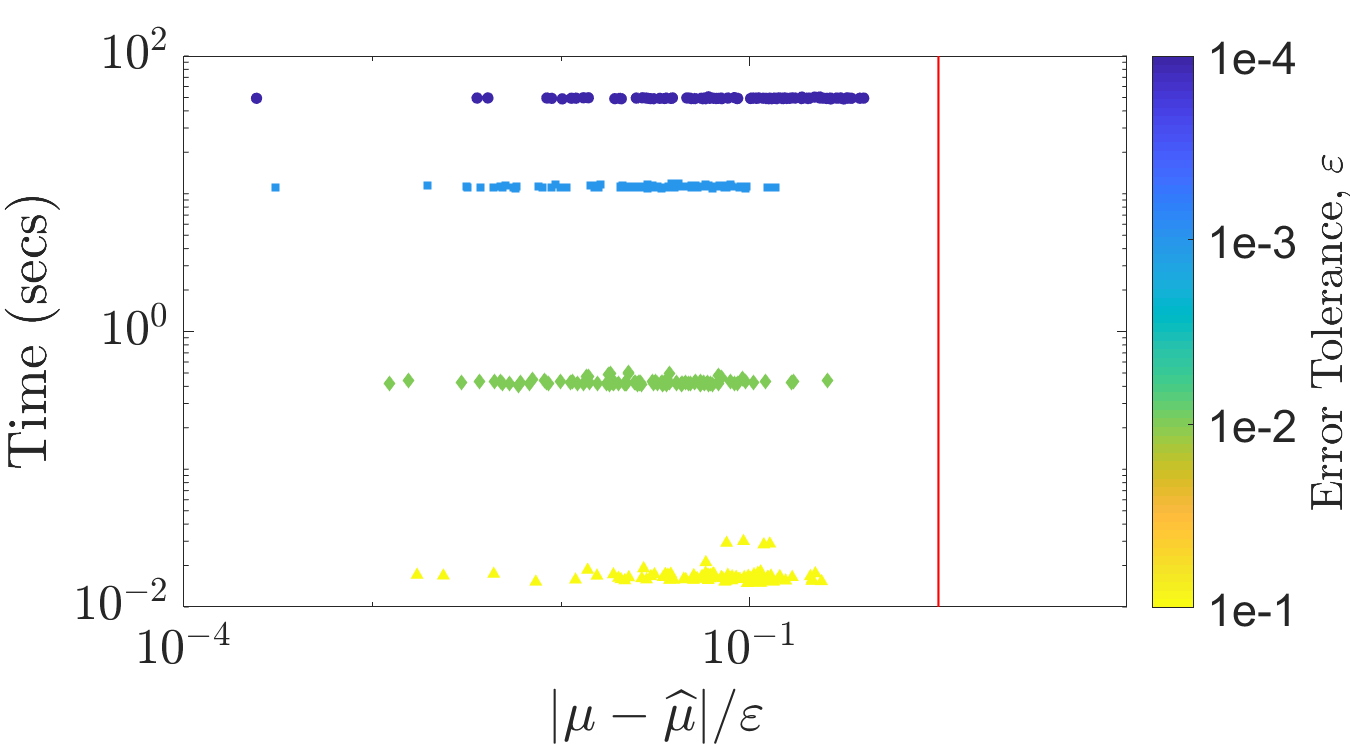
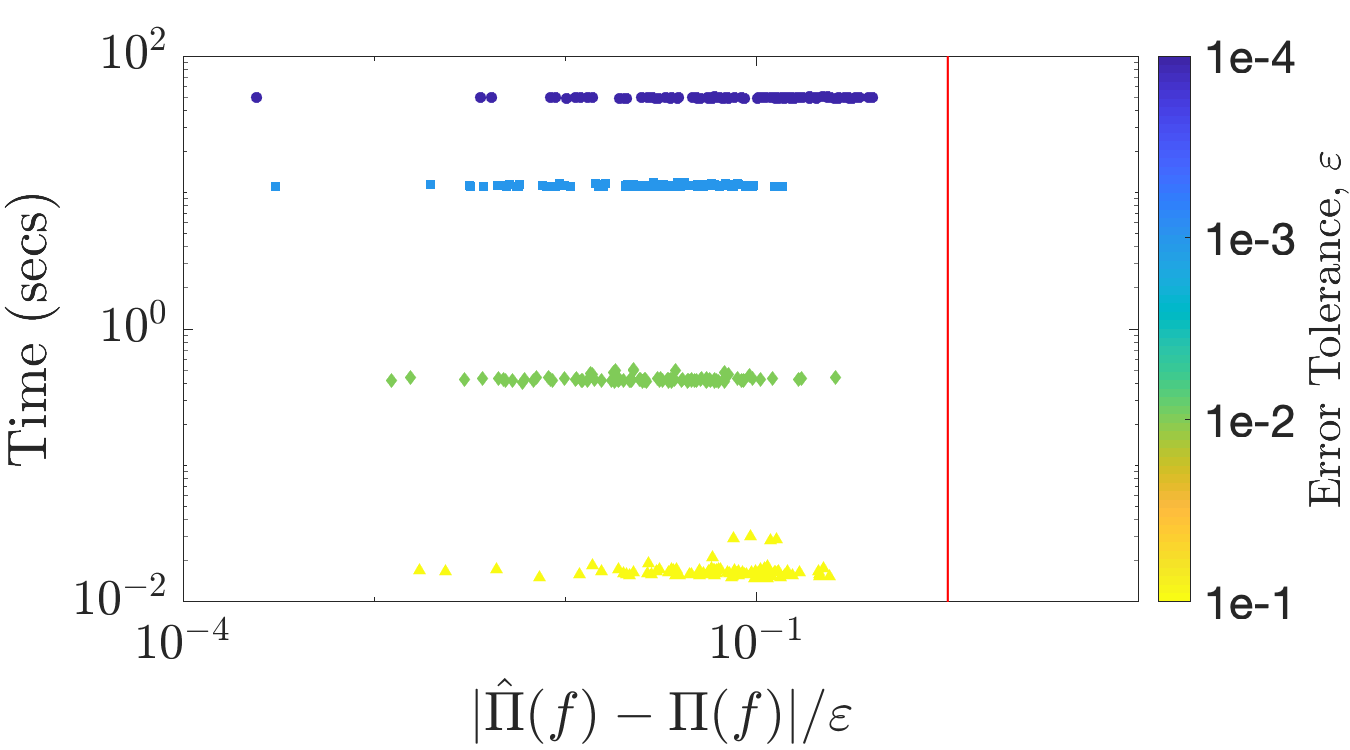
testing

diff --git a/StatSciProbNum2018Discuss.tex b/StatSciProbNum2018Discuss.tex
@@ -115,7 +115,7 @@ To increase the possibility that our integrand $f$ lies in the middle of the sam
 \begin{subequations} \label{JHFullBayes}
 \begin{align}
 \label{eqn:BC}
-    \hat{\Pi}[f] & =  \Ex_n[\hat{\Pi}[g]] \\
+    \hat{\Pi}[f] & =  \Ex_n[\Pi[g]] \\
     \nonumber
     & =
 \left(
@@ -133,6 +133,7 @@ To increase the possibility that our integrand $f$ lies in the middle of the sam
 \nonumber & \qquad \qquad  +
 \Pi\Pi[c_0(\cdot,\cdot)] - \Pi[\vc_0(\cdot, X)]\vC_0^{-1} \Pi[\vc_0(X,\cdot)] 
 \biggr ), \\
+\label{BCFullStop}
 \lefteqn{\Prob\Bigl[\bigl \lvert \hat{\Pi}[f] - \Pi[g] \bigr \rvert \le t_{n-1,0.995} \sqrt{\Var_n[\Pi[g]]}  \Bigr] = 99\%,}
 \end{align}
 \end{subequations}
@@ -193,10 +194,11 @@ for some $\mathring{c}_0$, and
     \text{Shifted rank-1 integration lattice node sets, $\{\vx_i\}_{i=1}^n$, which satisfy} \\
     \vx, \vx' , \vx'' \in \{\vx_i\}_{i=1}^n \implies \vx + \vx' - \vx'' \bmod \vone \in \{\vx_i\}_{i=1}^n. 
 \end{multline*}
-The covariance function in \eqref{the_kernel_eqn_bernoulli} is an example of a shift-invariant covariance function \citep{Hic98b}.  Figure \ref{fig:latfig} depicts a rank-1 integration node set \cite{SloJoe94,DicEtal14a}.  The reason that this family of covariance functions matches this family of cubature nodes and satisfies assumptions \eqref{fastcompAssump} is that the matrix $\vC_0$ is circulant.
+The covariance function in \eqref{the_kernel_eqn_bernoulli} is an example of a shift-invariant covariance function \citep{Hic98b}.  Figure \ref{fig:latfig} (left) depicts a rank-1 integration node set \cite{SloJoe94,DicEtal14a}.  The reason that this family of covariance functions matches this family of cubature nodes and satisfies assumptions \eqref{fastcompAssump} is that the matrix $\vC_0$ is circulant.
 \begin{figure}
     \centering
-    \includegraphics[width = 0.3\linewidth]{ShiftedLatticePoints-eps-converted-to.pdf} \qquad	\includegraphics[width=0.64\linewidth]{"optPrice_guaranteed_time_full_Baker_d12_r1_2018-Sep-6"}
+    \includegraphics[height = 4.5cm]{ShiftedLatticePoints.eps} \qquad	
+    \includegraphics[height = 4.5cm]{"optPrice_guaranteed_time_full_Baker_d12_r1_2018-Sep-6"}
     \caption{An example of shifted integration lattice nodes in two dimensions (left). The performance of of Bayesian cubature for an option pricing example (right).}
     \label{fig:latfig}
 \end{figure}
@@ -208,6 +210,7 @@ Under these assumptions one may express \eqref{JHFullBayes} and \eqref{thetaEB} 
 \tvf & : = \vV^{H} \vf, \qquad \vlambda = \diag(\vLambda) = \tilde{\vC}_1 := \vV^{H} \vC_1, \\
     \hat{\Pi}[f] & =  \Ex_n[\hat{\Pi}[g]] = \frac 1n \sum_{i=1}^n f(\vx_i) = \frac{\tf_1}{n} \qquad \text{the sample average},\\
 \Var_n[\Pi[g]] & = \frac{1}{n(n-1)} \left(\frac{\lambda_1}{n}  - 1  \right)\sum_{i=2}^n \frac{\bigl \lvert \tf_i\bigr \rvert^2}{\lambda_i} , \\
+\label{thetaEBfast}
 \vtheta_{\textup{EB}} &= 
 \argmin_{\vtheta}
 \left[
@@ -221,8 +224,45 @@ Under these assumptions one may express \eqref{JHFullBayes} and \eqref{thetaEB} 
 \end{subequations}
 Apart from the computations in \eqref{FastTrans}, which require $\Order(n \log n)$ operations, all other calcuations in \eqref{JHFullBayesFast} require only $\Order(n)$ operations.
 
+Section 5 of \JH presents the results of several numerical experiments for Bayesian cubature with shift-invariant kernels and lattice nodes sets.  We reproduce one such experiment in Figure \ref{fig:latfig} (right).  The integrand is the payoff of an arithmetic mean Asian option.  The covariance function is the one given by \eqref{the_kernel_eqn_bernoulli} with $r=1$.  A low degree of smoothness seems is chosen in view of the discontinuities in the partial derivatives of the integrand.  The value of $\gamma$ is determined by empirical Bayes as in \eqref{thetaEBfast}.  The sample size, $n$, is increased in a sequence of powers of $2$ until the stopping criterion implied by \eqref{BCFullStop}, whose terms are computed quickly via \eqref{JHFullBayesFast}, is satisfied.  Four different values of the tolerance were tried, $\varepsilon = 0.1, 0.01, 0.001,$ and $0.0001$. The aim is for the cubature error, $|\Pi[f] - \hat{\Pi}[f]|$, to me no greater than, but not too much less than, the prescribed tolerance nearly all the time.  In this experiment, the error tolerance is always met.  As expected, the computation time is less for larger tolerances and greater for smaller tolerances.  
+
+In this example, and others provided in Section 5 of \JH, the cost of evaluating the integrand is modest, and so the cost of obtaining the needed function data, $\vf$ is on the same order as the matrix-vector operations required to compute the credible interval.  \JH also provides examples of the empirical Bayes and generalized cross-validation approaches to determining the parameters inherent in the covariance function and to using credible intervals as stopping criteria for Bayesian cubature.  All of these approaches are successful, which suggests that they should be explored over a larger range of examples.  
 
 \section{Probabilistic Versus Deterministic} \label{sec:ProbDet}
+
+Section 3.2 in \BOGOS sets the covariance kernel, $c$, for the Gaussian process, $g$, identical to the reproducing kernel, $k$, of the Hilbert space containing the integrand, $f$ for ``aesthetic'' reasons.  While this makes the application of several results from numerical analysis of deterministic cubature more readily transferable to Bayesian cubature, we think that such a correspondence muddies the waters.  While there are mathematical similarities between the probabilistic and determinstic approaches to cubature, there are some important differences.  
+
+When the optimal cubature weights are used, the deterministic error bound in \eqref{HJErrBd} may be expressed as
+\begin{subequations} \label{HJErrBdTight}
+\begin{gather} 
+    \label{HJErrBdBdTight}
+    \bigl \lvert \hat{\Pi}[f] - \Pi[f] \rvert^2 \le \lVert f - S(f) \rVert_{\calH}^2 \ \bigl \{ \Pi\Pi[k(\cdot,\cdot)] - \Pi[\vk(\cdot, X)]\vK^{-1} \Pi[\vk(X,\cdot)]\bigr \} , \\
+    \label{HJErrbdTightCub}
+    \text{where } \hat{\Pi}[f] = \Pi[S(f)] = \Pi[\vk(\cdot, X)] \vK^{-1} \vf,
+\end{gather}
+\end{subequations}
+and $S(f)$ is the minimum Hilbert space norm interpolant of the integrand, $f$.  The reason that $\lVert f \rVert_{\calH}$ in \eqref{HJErrBd} can be replaced by $\lVert f - S(f) \rVert_{\calH}$ is that the cubature in \eqref{HJErrbdTightCub} integrates $S(f)$ exactly. Moreover, $f - S(f)$ is orthogonal to $S(f)$ with respect to the the Hilbert space inner product.  Also note that
+\begin{equation} \label{HJErrBdTight}
+   \lVert S(f) \rVert^2_{\calH} = \vf^T \vK^{-1} \vf.
+\end{equation}
+
+Compare this to Proposition 2 of \BOGOS, which states that 
+\begin{subequations} \label{HJBCErrBdTight}
+\begin{gather} 
+\label{HJBCErrbdTightCub}
+    \hat{\Pi}[f] = \Ex[\Pi[g]] = \Pi[\vc_0(\cdot, X)] \vC_0^{-1} \vf , \\
+    \label{HJBCErrBdBdTight}
+    \Var[\Pi[g]] = \frac{\vf^T \vC_0^{-1} \vf}{n} \ \bigl \{ \Pi\Pi[c_0(\cdot,\cdot)] - \Pi[\vc_0(\cdot, X)]\vC_0^{-1} \Pi[\vc_0(X,\cdot)] \bigr \} , \\
+    \text{where } \hat{\Pi}[f] = \Pi[S(f)] = \Pi[\vk(\cdot, X)] \vK^{-1} \vf,
+\end{gather}
+\end{subequations}
+The formulas for the cubature $\hat{\Pi}[f]$ in both the deterministic and probabilistic senses are identical if $k$ is identical to $c_0$.  They are also independent of the vertical scale factor multiplying inherent in the definition of $k$ or $c_0$, i.e., the reproducing kernel $k$ and $47k$ yield the same cubature rule.  Likewise, the bound on the squared error in \eqref{HJErrBdBdTight} and the variance of the integral of the stochastic process in \eqref{HJBCErrBdBdTight} both contain a common factor if $k$ is identical to $c_0$.
+
+
+Add some more
+
+
+The sample space for the integrand, $f$, and the Gaussian process used to model the integrand, $g$, need not be directly tied to the 
 
 
 \section{Hi}
